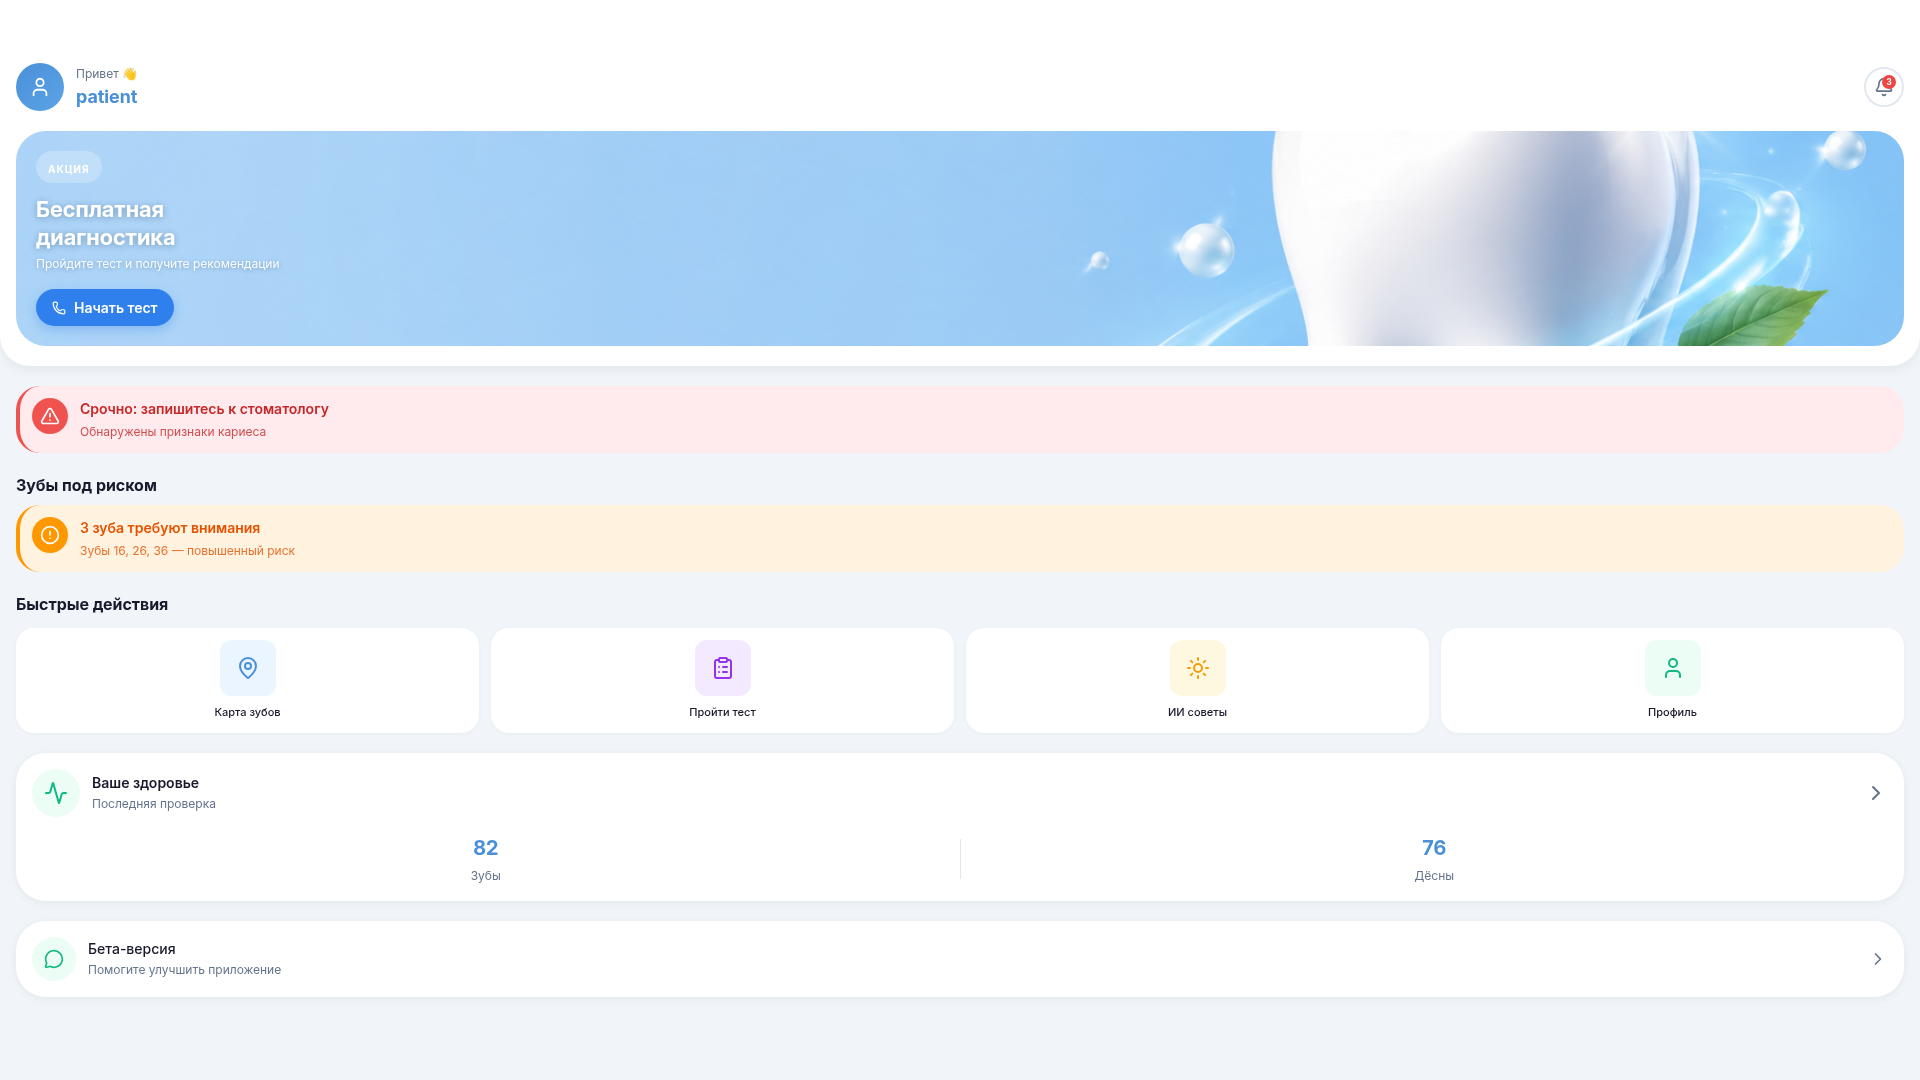
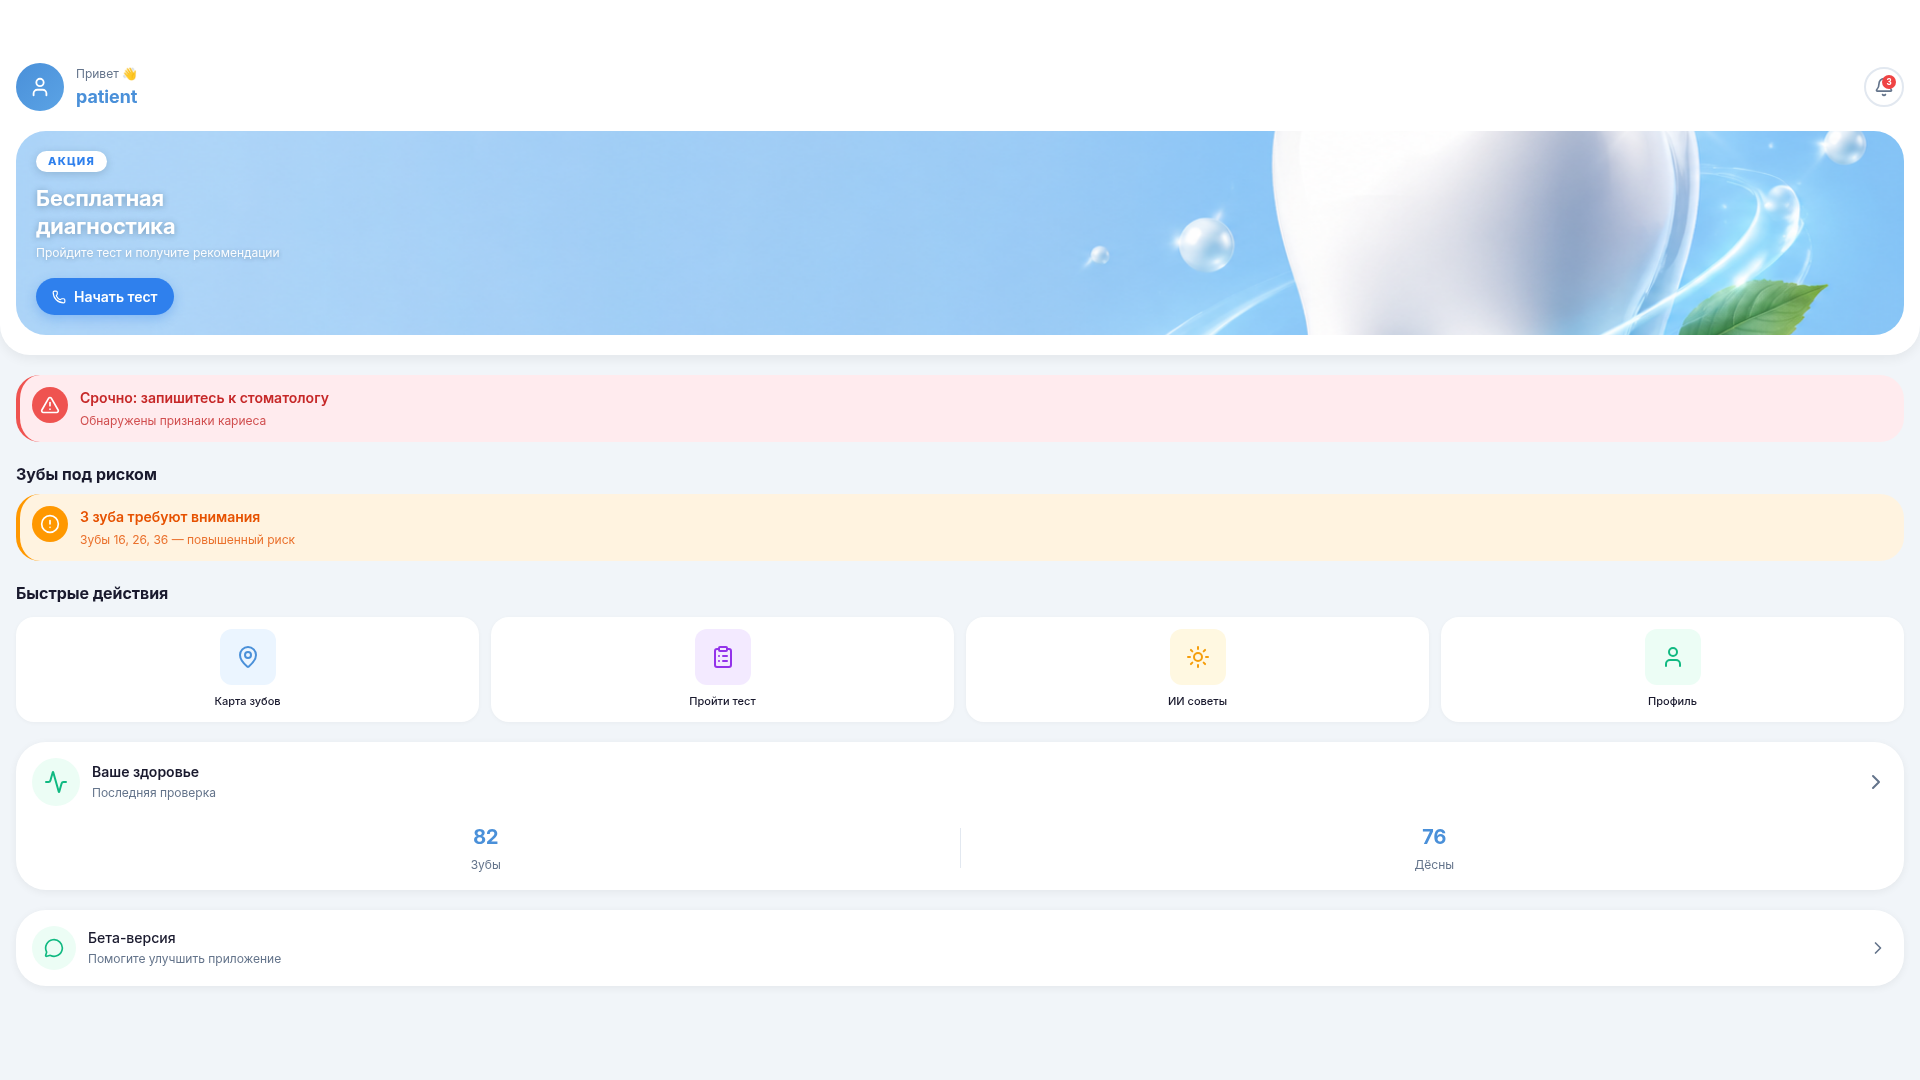
Improve the visibility and styling of the promotional tag
Adjust the 'АКЦИЯ' tag's background to a solid white pill with a blue text color and shadow, increasing its contrast and alignment.

Replit-Commit-Author: Agent
Replit-Commit-Session-Id: 74731237-5f90-415b-89e2-4d4486d30e34
Replit-Commit-Checkpoint-Type: full_checkpoint
Replit-Commit-Event-Id: ac0ed9c3-7798-44b7-a318-41ff87018f86
Replit-Helium-Checkpoint-Created: true

diff --git a/artifacts/mockup-sandbox/src/components/mockups/home-screen/Home.tsx b/artifacts/mockup-sandbox/src/components/mockups/home-screen/Home.tsx
@@ -102,19 +102,30 @@ export function Home() {
           >
             <div className="flex flex-col" style={{ flex: 1, zIndex: 1, maxWidth: "65%" }}>
               <div
-                className="self-start"
+                className="self-start inline-flex items-center justify-center"
                 style={{
-                  background: "rgba(255,255,255,0.25)",
+                  background: "#FFFFFF",
                   paddingLeft: 12,
                   paddingRight: 12,
-                  paddingTop: 4,
-                  paddingBottom: 4,
+                  paddingTop: 5,
+                  paddingBottom: 5,
                   borderRadius: 9999,
                   marginBottom: 12,
-                  backdropFilter: "blur(4px)",
+                  boxShadow: "0 2px 8px rgba(15,42,68,0.18)",
+                  lineHeight: 1,
                 }}
               >
-                <span style={{ color: "#FFFFFF", fontSize: 10, fontWeight: 700, letterSpacing: 1 }}>АКЦИЯ</span>
+                <span
+                  style={{
+                    color: "#2F80ED",
+                    fontSize: 11,
+                    fontWeight: 800,
+                    letterSpacing: 1.2,
+                    lineHeight: 1,
+                  }}
+                >
+                  АКЦИЯ
+                </span>
               </div>
               <div
                 style={{
